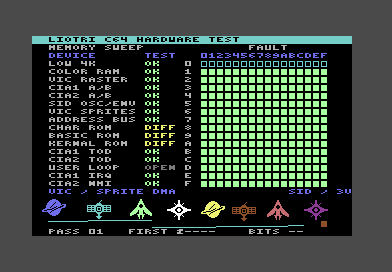
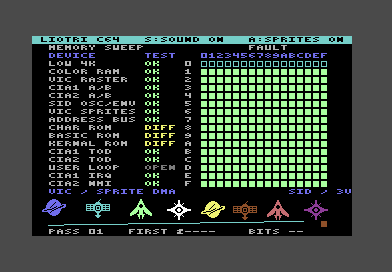
Report clean passes and add sound and sprite controls

diff --git a/tests/liotri.py b/tests/liotri.py
@@ -14,10 +14,10 @@ CART = ROOT / "liotri.crt"
 BIN = os.environ.get("C64_HW_SIM", "c64-hw-sim")
 
 
-def run(frames, *args, cart=CART):
+def run(frames, *args, cart=CART, keys=""):
     command = [BIN, "--headless", str(frames), "--text", *args, cart]
     return subprocess.run(command, cwd=ROOT, capture_output=True, text=True,
-                          check=True).stdout
+                          check=True, env={**os.environ, "C64HW_TYPE": keys}).stdout
 
 
 def expect(report, *patterns):
@@ -32,6 +32,8 @@ def quick(work):
     shot = work / "quick.png"
     run(25, "--fault", "U5:removed", "--shot", shot)
     report, _ = repair_screen(shot)
+    expect(report, "S:SOUND ON", "A:SPRITES ON")
+    assert "CHECKS OK" not in report
     for label in ("LOW 4K", "ADDRESS BUS", "COLOR RAM", "VIC RASTER",
                   "CIA1 A/B", "CIA2 A/B", "CIA1 IRQ", "CIA2 NMI",
                   "SID OSC/ENV", "VIC SPRITES"):
@@ -40,7 +42,9 @@ def quick(work):
 
 def healthy():
     report = run(480)
-    expect(report, r"SID / OSC3 +PASS", r"PASS 01 +FIRST \$---- +BITS --")
+    expect(report, r"SID / OSC3 +CHECKS OK +PASS", r"PASS 01 +FIRST \$---- +BITS --",
+           "NO FAULTS FOUND", "RAM TESTS REPEAT UNTIL RESET", "TO CATCH INTERMITTENT FAULTS",
+           "S:SOUND ON", "A:SPRITES ON")
     for label in ("CHAR ROM", "BASIC ROM", "KERNAL ROM", "CIA1 TOD", "CIA2 TOD"):
         expect(report, label + r" +OK")
     expect(report, r"USER LOOP +OPEN")
@@ -48,8 +52,17 @@ def healthy():
 
 def march():
     # A third pass requires completing both the address and March C- sweeps.
-    report = run(1500)
-    expect(report, r"PASS 03 +FIRST \$---- +BITS --")
+    report = run(1500, keys="sa")
+    expect(report, r"PASS 03 +FIRST \$---- +BITS --", r"MEMORY SWEEP +CHECKS OK",
+           "S:SOUND OFF", "A:SPRITES OFF")
+
+
+def shortcuts():
+    # Pressing S twice must unmute even if A was pressed between the two.
+    report = run(205, keys="sas")
+    expect(report, "S:SOUND ON ", "A:SPRITES OFF", r"VIC SPRITES +OK", r"SID OSC/ENV +OK")
+    report = run(480, keys="saa")
+    expect(report, "S:SOUND OFF", "A:SPRITES ON", "NO FAULTS FOUND")
 
 
 def peripherals():
@@ -78,7 +91,9 @@ def flipped_byte(work):
     # $d34a should contain $d3 XOR $4a XOR $5a. Flip exactly D2 and D0.
     prg = work / "retention.prg"
     prg.write_bytes(bytes([0x4a, 0xd3, 0xd3 ^ 0x4a ^ 0x5a ^ 5]))
-    expect(run(440, prg), r"FIRST \$D34A +BITS 05", r"MEMORY SWEEP +FAULT")
+    report = run(440, prg)
+    expect(report, r"FIRST \$D34A +BITS 05", r"MEMORY SWEEP +RAM FAULT +FAULT")
+    assert "NO FAULTS FOUND" not in report and "CHECKS OK" not in report
 
 
 def repair_screen(path):
@@ -102,7 +117,7 @@ def repair_screen(path):
         return pixels[pos:pos+3]
 
     romh = CART.read_bytes()[-8192:]
-    alphabet = "ABCDEFGHIJKLMNOPQRSTUVWXYZ0123456789 /$"
+    alphabet = "ABCDEFGHIJKLMNOPQRSTUVWXYZ0123456789 /$:"
     glyphs = {romh[0x1000+8*(ord(ch) & 63):0x1008+8*(ord(ch) & 63)]: ch
               for ch in alphabet}
     bg = pixel(32, 36+4*8)
@@ -119,7 +134,10 @@ def repair_screen(path):
                     if ink != bg:
                         colors.add(ink)
                 glyph.append(bits)
-            line.append(glyphs.get(bytes(glyph), "?"))
+            # The dashboard shortcut bar uses reverse video.
+            normal = bytes(glyph)
+            inverse = bytes(value ^ 255 for value in glyph)
+            line.append(glyphs.get(normal, glyphs.get(inverse, "?")))
         rows.append("".join(line))
         inks.append(colors)
     return "\n".join(rows), inks
@@ -147,11 +165,13 @@ def address_alias(work):
 
 def missing_roms(work):
     shot = work / "roms.png"
-    run(160, "--fault", "U3:removed", "--fault", "U4:removed", "--fault", "U5:removed",
-        "--shot", shot)
+    run(440, "--fault", "U3:removed", "--fault", "U4:removed", "--fault", "U5:removed",
+        "--shot", shot, keys="sa")
     text, _ = repair_screen(shot)
     expect(text, r"CHAR ROM +DIFF", r"BASIC ROM +DIFF", r"KERNAL ROM +DIFF",
-           r"VIC SPRITES +OK", r"PASS 01")
+           r"VIC SPRITES +OK", r"PASS 01", r"MEMORY SWEEP +FAULT",
+           "S:SOUND OFF", "A:SPRITES OFF")
+    assert "NO FAULTS FOUND" not in text and "CHECKS OK" not in text
 
 
 def mapper(work):
@@ -182,7 +202,7 @@ def mapper(work):
 def main():
     with tempfile.TemporaryDirectory(prefix="liotri-") as temp:
         work = Path(temp)
-        cases = [healthy, march, peripherals, interrupts, harness]
+        cases = [healthy, march, shortcuts, peripherals, interrupts, harness]
         with concurrent.futures.ThreadPoolExecutor(max_workers=4) as pool:
             jobs = {pool.submit(case): case.__name__ for case in cases}
             for case in [quick, flipped_byte, dead_ram, address_alias, missing_roms, mapper]:

diff --git a/README.md b/README.md
@@ -5,6 +5,13 @@ with all three system ROMs missing and checks the low 4K of RAM before its
 first subroutine call. When RAM or an address multiplexer fails, the VIC can
 read both the fault message and its font directly from the cartridge.
 
+We developed Liotri with c64-hw-simulator, a C64 hardware emulator that let
+us inject faults into a simulated PAL board (ASSY 250407) and verify the
+cartridge’s diagnosis. Removing DRAM chips U24 and U21 made Liotri highlight
+D6 and D0 on screen and flash twice for D6. Disconnecting CIA1’s IRQ pin
+left its timer check at OK while its interrupt check reported BAD.
+[c64-hw-simulator](https://github.com/antirez/c64-hw-simulator)
+
 On a healthy machine the dashboard shows the quick checks first, then maps
 the RAM sweep one page at a time. After a clean pass, the eight test sprites
 orbit a live trace of SID voice 3 while the SID plays a three-voice tune.
@@ -63,6 +70,18 @@ page marks survive subsequent passes. After a sparse address-bus failure, the ca
 finishes the quick checks, inhibits the deep writes, and switches to a second
 ROM-backed screen. Nine flashes identify this case. The highlighted address
 is the first conflicting probe, or the base if the returned tag was invalid.
+
+When the first full RAM pass finishes without a recorded fault, the
+dashboard shows **NO FAULTS FOUND** and explains that RAM tests repeat
+until RESET to catch intermittent faults. **CHECKS OK** stays visible during
+subsequent sweeps. A later mismatch immediately changes it to **RAM FAULT**
+and records the address and differing bits.
+
+The top row shows both keyboard shortcuts and their current settings.
+Press **S** to mute or restore sound and **A** to hide or show the animated
+sprites. Both start on after RESET. The keys work with the cartridge font
+and a working CIA1 keyboard path. The SID scope keeps sampling while muted,
+and the VIC runs its collision checks before animation controls take effect.
 
 On a clean pass, the memory map briefly becomes a large SID scope. Its
 sixteen columns sample the actual OSC3 register. The eight hardware sprites
@@ -151,8 +170,9 @@ C64_HW_SIM=/path/to/c64-hw-sim python3 tests/liotri.py
 
 The suite reads the monitor output and flash reports. It exercises missing
 ROMs, interrupted data and address paths, SID and CIA failures, broken harness
-contacts, and a deliberately changed byte under I/O. With the character ROM
-removed, it decodes screenshots using the cartridge’s own glyphs.
+contacts, keyboard toggles, the clean-pass report, and a deliberately changed
+byte under I/O. With the character ROM removed, it decodes screenshots using
+the cartridge’s own glyphs.
 
 ## License
 
